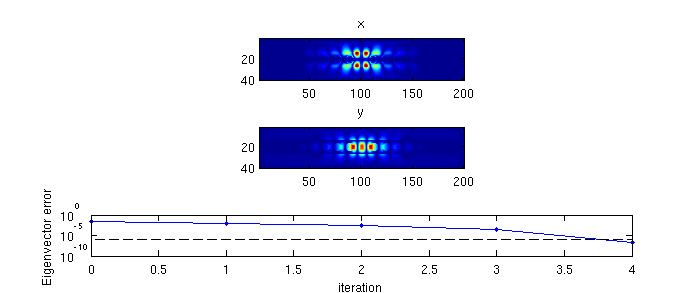
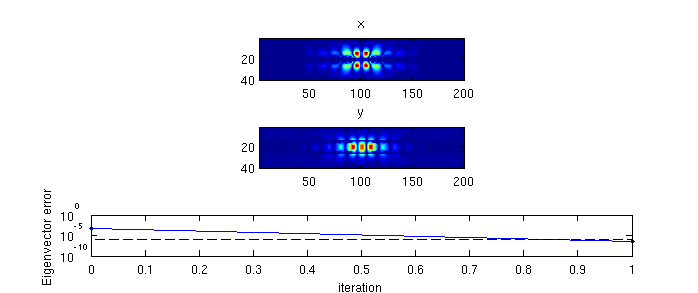
Getting there with 2D optimize function.

diff --git a/html/optimize_2D_mode_example.html b/html/optimize_2D_mode_example.html
@@ -6,7 +6,7 @@
    <!--
 This HTML was auto-generated from MATLAB code.
 To make changes, update the MATLAB code and republish this document.
-      --><title>mode_optimization_example</title><meta name="generator" content="MATLAB 7.13"><link rel="schema.DC" href="http://purl.org/dc/elements/1.1/"><meta name="DC.date" content="2012-12-03"><meta name="DC.source" content="optimize_2D_mode_example.m"><style type="text/css">
+      --><title>mode_optimization_example</title><meta name="generator" content="MATLAB 7.13"><link rel="schema.DC" href="http://purl.org/dc/elements/1.1/"><meta name="DC.date" content="2012-12-04"><meta name="DC.source" content="optimize_2D_mode_example.m"><style type="text/css">
 
 body {
   background-color: white;
@@ -62,20 +62,20 @@ p.footer {
   color: gray;
 }
 
-  </style></head><body><div class="content"><h1>mode_optimization_example</h1><!--introduction--><p>Example of the optimization of an eigenmode.</p><!--/introduction--><h2>Contents</h2><div><ul><li><a href="#1">Description</a></li><li><a href="#3">Create the initial structure</a></li><li><a href="#4">Create the simulation parameters</a></li><li><a href="#5">Get the initial guess of the eigenmode</a></li><li><a href="#6">eigens..</a></li><li><a href="#8">Source code for private functions.</a></li></ul></div><h2>Description<a name="1"></a></h2><p>Starts with the eigenmode of a beam resonator, and then varies parameters to obtain a desirable eigenvalue.</p><pre class="codeinput"><span class="comment">% Make this a function instead of a script to allow for nested function definitions.</span>
+  </style></head><body><div class="content"><h1>mode_optimization_example</h1><!--introduction--><p>Example of the optimization of an eigenmode.</p><!--/introduction--><h2>Contents</h2><div><ul><li><a href="#1">Description</a></li><li><a href="#3">Create the initial structure</a></li><li><a href="#4">Create the simulation parameters</a></li><li><a href="#5">Get the initial guess of the eigenmode</a></li><li><a href="#6">Run the eigenvalue optimization routinge</a></li><li><a href="#8">Source code for private functions.</a></li></ul></div><h2>Description<a name="1"></a></h2><p>Starts with the eigenmode of a beam resonator, and then varies parameters to obtain a desirable eigenvalue.</p><pre class="codeinput"><span class="comment">% Make this a function instead of a script to allow for nested function definitions.</span>
 <span class="keyword">function</span> [] = optimize_2D_mode_example()
 </pre><h2>Create the initial structure<a name="3"></a></h2><p>We use the <tt>add_planar</tt> and <tt>stretched_coordinates</tt> functions to create our structure as well as our simulation grid.</p><pre class="codeinput">    dims = [200 40 1]; <span class="comment">% Size of the simulation.</span>
-    omega = 0.16; <span class="comment">% Frequency of the simulation.</span>
+    omega = 0.134; <span class="comment">% Frequency of the simulation.</span>
 
     lattice_spacing = 12;
-    p0 = lattice_spacing * [-6:-1, 1:6]; <span class="comment">% Starting structure parameters.</span>
-    epsilon = my_structure(dims, p0);
+    p = lattice_spacing * [1:6]; <span class="comment">% Starting structure parameters.</span>
+    epsilon = my_structure(dims, p);
 </pre><h2>Create the simulation parameters<a name="4"></a></h2><pre class="codeinput">    <span class="comment">% Create the s-parameters.</span>
     [s_prim, s_dual] = stretched_coordinates(omega, dims, [10 10 0]);
 
     <span class="comment">% Create the current source this is only used to get v_guess for the mode solver.</span>
     J = {zeros(dims), zeros(dims), zeros(dims)};
-    J{2}(dims(1)/2, dims(2)/2, 1) = 1;
+    J{2}(dims(1)/2, dims(2)/2 + 1, 1) = 1;
 
     <span class="comment">% Permeability.</span>
     mu = {ones(dims), ones(dims), ones(dims)};
@@ -93,27 +93,48 @@ p.footer {
 
     fprintf(<span class="string">'v_guess error: %e \n'</span>, <span class="keyword">...</span>
                 norm(A * v_guess - omega^2 * (e .* v_guess) - b) / norm(b));
-</pre><img vspace="5" hspace="5" src="optimize_2D_mode_example_01.png" alt=""> <img vspace="5" hspace="5" src="optimize_2D_mode_example_02.png" alt=""> <pre class="codeoutput">v_guess error: 9.635491e-16 
-</pre><h2>eigens..<a name="6"></a></h2><pre class="codeinput">    [lambda, v, w] = my_eigensolver(s_prim, s_dual, mu, epsilon, v_guess);
-    snapnow;
+</pre><img vspace="5" hspace="5" src="optimize_2D_mode_example_01.png" alt=""> <img vspace="5" hspace="5" src="optimize_2D_mode_example_02.png" alt=""> <pre class="codeoutput">v_guess error: 3.851009e-14 
+</pre><h2>Run the eigenvalue optimization routinge<a name="6"></a></h2><pre class="codeinput">    <span class="comment">% Compute the eigenmode.</span>
+    [lambda, v, w] = my_eigensolver(s_prim, s_dual, mu, epsilon, v_guess);
+<span class="comment">%   snapnow;</span>
 
-    fprintf(<span class="string">'%e %e\n'</span>, norm(A*v - lambda*(e.*v))/norm(v), <span class="keyword">...</span>
-                        norm(w' * A - lambda * (e.' .* w'))/norm(w));
-    sqrt(lambda);
+<span class="comment">%   fprintf('%e %e\n', norm(A*v - lambda*(e.*v))/norm(v), ...</span>
+<span class="comment">%                       norm(w' * A - lambda * (e.' .* w'))/norm(w));</span>
+
+    <span class="comment">% Compute the derivative.</span>
+
+    dl_de = -(lambda / (w' * (e .* v))) * (w' .* v.'); <span class="comment">% Algebraic derivative.</span>
+
+    <span class="comment">% Structural derivative.</span>
+    vec = @(z) [z{1}(:); z{2}(:); z{3}(:)];
+    <span class="keyword">for</span> k = 1 : length(p)
+        dp = zeros(size(p));
+        dp(k) = 1e-6;
+        de = vec(my_structure(dims, p + dp)) - e;
+        dl_dp(k) = dl_de * de;
+    <span class="keyword">end</span>
+    <span class="keyword">return</span>
+
     <span class="comment">% Compute the derivative, dlambda_dp.</span>
-    dp = randn(size(p0));
-    dp = 1e-0 * dp / norm(dp);
+    dp = randn(size(p));
+    dp = 1e0 * dp / norm(dp);
+    epsilon1 = my_structure(dims, p + dp);
 
-   <span class="comment">% Get the perturbed eigenmode.</span>
-    [lambda1, v1, w1] = my_eigensolver(s_prim, s_dual, mu, my_structure(dims, p0 + dp), v);
-    sqrt(lambda1)
-</pre><img vspace="5" hspace="5" src="optimize_2D_mode_example_03.png" alt=""> <pre class="codeoutput">1.835198e-06 1.600930e-06
+    <span class="comment">% Get the perturbed eigenmode.</span>
+    [lambda1, v1, w1] = my_eigensolver(s_prim, s_dual, mu, epsilon1, v);
 
-ans =
+    dlambda = lambda1 - lambda;
 
-   0.1325 + 0.0001i
+    <span class="comment">% Now try to predict it.</span>
+    vec = @(z) [z{1}(:); z{2}(:); z{3}(:)];
 
-</pre><img vspace="5" hspace="5" src="optimize_2D_mode_example_04.png" alt=""> <pre class="codeinput"><span class="keyword">end</span>
+    de = vec(epsilon1) - vec(epsilon);
+
+    dl = dl_de * de;
+    dlambda
+    dl
+    err = norm(dlambda - dl) / norm(dlambda)
+</pre><pre class="codeinput"><span class="keyword">end</span>
 </pre><h2>Source code for private functions.<a name="8"></a></h2><pre class="codeinput"><span class="keyword">function</span> [epsilon] = my_structure(dims, hole_y_pos)
 <span class="comment">% Private function to create a photonic crystal beam structure.</span>
 
@@ -131,6 +152,10 @@ ans =
     <span class="keyword">for</span> k = 1 : length(hole_y_pos)
         my_shapes{end+1} = struct(<span class="string">'type'</span>, <span class="string">'circle'</span>, <span class="keyword">...</span>
                                 <span class="string">'position'</span>, [hole_y_pos(k) 0], <span class="keyword">...</span>
+                                <span class="string">'radius'</span>, hole_radius, <span class="keyword">...</span>
+                                <span class="string">'permittivity'</span>, 1);
+        my_shapes{end+1} = struct(<span class="string">'type'</span>, <span class="string">'circle'</span>, <span class="keyword">...</span>
+                                <span class="string">'position'</span>, [-hole_y_pos(k) 0], <span class="keyword">...</span>
                                 <span class="string">'radius'</span>, hole_radius, <span class="keyword">...</span>
                                 <span class="string">'permittivity'</span>, 1);
     <span class="keyword">end</span>
@@ -213,7 +238,7 @@ ans =
     <span class="comment">% Obtain right eigenvector.</span>
     w = conj(S * v);
 <span class="keyword">end</span>
-</pre><p class="footer"><br>
+</pre><img vspace="5" hspace="5" src="optimize_2D_mode_example_03.png" alt=""> <p class="footer"><br>
       Published with MATLAB&reg; 7.13<br></p></div><!--
 ##### SOURCE BEGIN #####
 %% mode_optimization_example
@@ -231,11 +256,11 @@ function [] = optimize_2D_mode_example()
 % structure as well as our simulation grid.
 
     dims = [200 40 1]; % Size of the simulation.
-    omega = 0.16; % Frequency of the simulation.
+    omega = 0.134; % Frequency of the simulation.
 
     lattice_spacing = 12;
-    p0 = lattice_spacing * [-6:-1, 1:6]; % Starting structure parameters.
-    epsilon = my_structure(dims, p0);
+    p = lattice_spacing * [1:6]; % Starting structure parameters.
+    epsilon = my_structure(dims, p);
    
 
 %% Create the simulation parameters
@@ -245,7 +270,7 @@ function [] = optimize_2D_mode_example()
 
     % Create the current source this is only used to get v_guess for the mode solver.
     J = {zeros(dims), zeros(dims), zeros(dims)};
-    J{2}(dims(1)/2, dims(2)/2, 1) = 1;
+    J{2}(dims(1)/2, dims(2)/2 + 1, 1) = 1;
 
     % Permeability.
     mu = {ones(dims), ones(dims), ones(dims)};
@@ -269,22 +294,48 @@ function [] = optimize_2D_mode_example()
     fprintf('v_guess error: %e \n', ...
                 norm(A * v_guess - omega^2 * (e .* v_guess) - b) / norm(b));
 
-%% eigens..
+%% Run the eigenvalue optimization routinge
     
+    % Compute the eigenmode.
     [lambda, v, w] = my_eigensolver(s_prim, s_dual, mu, epsilon, v_guess);
-    snapnow;
+%   snapnow;
 
-    fprintf('%e %e\n', norm(A*v - lambda*(e.*v))/norm(v), ...
-                        norm(w' * A - lambda * (e.' .* w'))/norm(w));
-    sqrt(lambda);
+%   fprintf('%e %e\n', norm(A*v - lambda*(e.*v))/norm(v), ...
+%                       norm(w' * A - lambda * (e.' .* w'))/norm(w));
+
+    % Compute the derivative.
+
+    dl_de = -(lambda / (w' * (e .* v))) * (w' .* v.'); % Algebraic derivative.
+
+    % Structural derivative.
+    vec = @(z) [z{1}(:); z{2}(:); z{3}(:)];
+    for k = 1 : length(p)
+        dp = zeros(size(p));
+        dp(k) = 1e-6;
+        de = vec(my_structure(dims, p + dp)) - e;
+        dl_dp(k) = dl_de * de;
+    end
+    return
+        
     % Compute the derivative, dlambda_dp.
-    dp = randn(size(p0));
-    dp = 1e-0 * dp / norm(dp); 
+    dp = randn(size(p));
+    dp = 1e0 * dp / norm(dp); 
+    epsilon1 = my_structure(dims, p + dp);
 
-   % Get the perturbed eigenmode.
-    [lambda1, v1, w1] = my_eigensolver(s_prim, s_dual, mu, my_structure(dims, p0 + dp), v);
-    sqrt(lambda1)
+    % Get the perturbed eigenmode.
+    [lambda1, v1, w1] = my_eigensolver(s_prim, s_dual, mu, epsilon1, v);
     
+    dlambda = lambda1 - lambda;
+
+    % Now try to predict it.
+    vec = @(z) [z{1}(:); z{2}(:); z{3}(:)];
+
+    de = vec(epsilon1) - vec(epsilon);
+
+    dl = dl_de * de;
+    dlambda
+    dl
+    err = norm(dlambda - dl) / norm(dlambda)
 
 end
 
@@ -307,6 +358,10 @@ function [epsilon] = my_structure(dims, hole_y_pos)
     for k = 1 : length(hole_y_pos)
         my_shapes{end+1} = struct('type', 'circle', ...
                                 'position', [hole_y_pos(k) 0], ...
+                                'radius', hole_radius, ...
+                                'permittivity', 1);
+        my_shapes{end+1} = struct('type', 'circle', ...
+                                'position', [-hole_y_pos(k) 0], ...
                                 'radius', hole_radius, ...
                                 'permittivity', 1);
     end

diff --git a/optimize_2D_mode_example.m b/optimize_2D_mode_example.m
@@ -16,8 +16,8 @@ function [] = optimize_2D_mode_example()
     omega = 0.134; % Frequency of the simulation.
 
     lattice_spacing = 12;
-    p0 = lattice_spacing * [1:6]; % Starting structure parameters.
-    epsilon = my_structure(dims, p0);
+    p = lattice_spacing * [1:6]'; % Starting structure parameters.
+    epsilon = my_structure(dims, p);
    
 
 %% Create the simulation parameters
@@ -27,7 +27,7 @@ function [] = optimize_2D_mode_example()
 
     % Create the current source this is only used to get v_guess for the mode solver.
     J = {zeros(dims), zeros(dims), zeros(dims)};
-    J{2}(dims(1)/2, dims(2)/2, 1) = 1;
+    J{2}(dims(1)/2, dims(2)/2 + 1, 1) = 1;
 
     % Permeability.
     mu = {ones(dims), ones(dims), ones(dims)};
@@ -51,28 +51,71 @@ function [] = optimize_2D_mode_example()
     fprintf('v_guess error: %e \n', ...
                 norm(A * v_guess - omega^2 * (e .* v_guess) - b) / norm(b));
 
-%% eigens..
+%% Run the eigenvalue optimization routinge
     
+    % Compute the eigenmode.
     [lambda, v, w] = my_eigensolver(s_prim, s_dual, mu, epsilon, v_guess);
-    snapnow;
+%   snapnow;
 
-    fprintf('%e %e\n', norm(A*v - lambda*(e.*v))/norm(v), ...
-                        norm(w' * A - lambda * (e.' .* w'))/norm(w));
-    % Compute the derivative, dlambda_dp.
-    dp = randn(size(p0));
-    dp = 1e-0 * dp / norm(dp); 
-    epsilon1 = my_structure(dims, p0 + dp)
+%   fprintf('%e %e\n', norm(A*v - lambda*(e.*v))/norm(v), ...
+%                       norm(w' * A - lambda * (e.' .* w'))/norm(w));
 
-   % Get the perturbed eigenmode.
-    [lambda1, v1, w1] = my_eigensolver(s_prim, s_dual, mu, epsilon1, v);
-    
-    dlambda = lambda1 - lambda;
+    % Compute the derivative.
 
-    % Now try to predict it.
+    dl_de = -(lambda / (w' * (e .* v))) * (w' .* v.'); % Algebraic derivative.
+
+    % Structural derivative.
     vec = @(z) [z{1}(:); z{2}(:); z{3}(:)];
+    for k = 1 : length(p)
+        dp = zeros(size(p));
+        dp(k) = 1e-6;
+        de = vec(my_structure(dims, p + dp)) - e;
+        dl_dp(k) = dl_de * de;
+    end
+    dl_dp
+    
+    % Check derivative.
+    fun = @(p) my_eigensolver(s_prim, s_dual, mu, my_structure(dims, p), v);
+    fun(p)
+    test_derivative(fun, dl_dp, lambda, p)
 
-    de = vec(epsilon1) - vec(epsilon);
 
+%   return
+%       
+%   % Compute the derivative, dlambda_dp.
+%   dp = randn(size(p));
+%   dp = 1e0 * dp / norm(dp); 
+%   epsilon1 = my_structure(dims, p + dp);
+
+%   % Get the perturbed eigenmode.
+%   [lambda1, v1, w1] = my_eigensolver(s_prim, s_dual, mu, epsilon1, v);
+%   
+%   dlambda = lambda1 - lambda;
+
+%   % Now try to predict it.
+%   vec = @(z) [z{1}(:); z{2}(:); z{3}(:)];
+
+%   de = vec(epsilon1) - vec(epsilon);
+
+%   dl = dl_de * de;
+%   dlambda
+%   dl
+%   err = norm(dlambda - dl) / norm(dlambda)
+
+end
+
+function [err] = test_derivative(fun, df_dz, f0, z0)
+% Check a derivative.
+    
+    % Produce a random direction.
+    dz = randn(size(z0));
+    dz = 1e-1 * dz / norm(dz);
+
+    % Evaluate delta in that direction empirically
+    delta_empirical = fun(z0 + dz) - f0
+    delta_derivative = df_dz * dz
+
+    err = norm(delta_empirical - delta_derivative) / norm(delta_empirical);
 end
 
 
